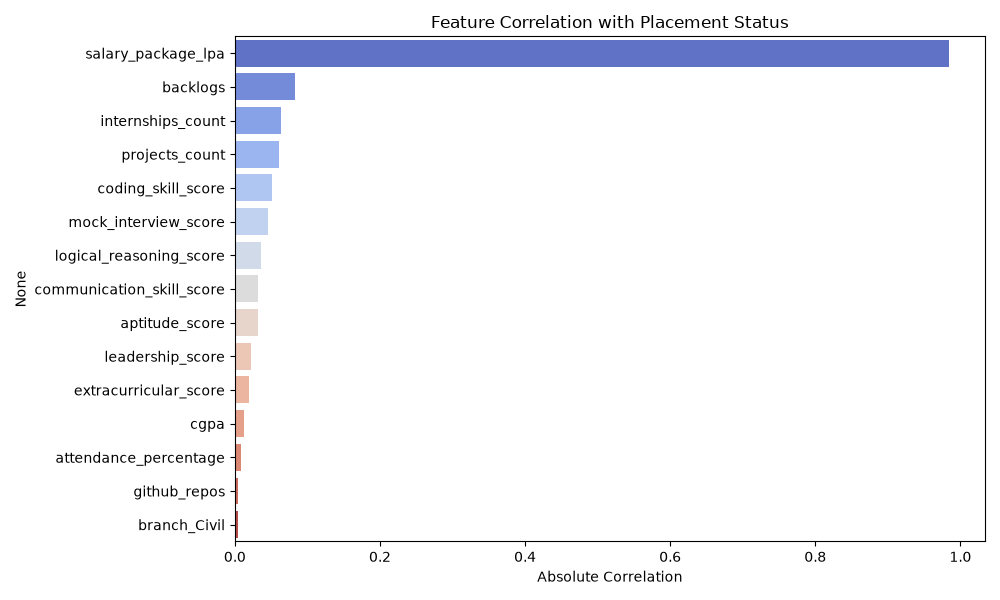
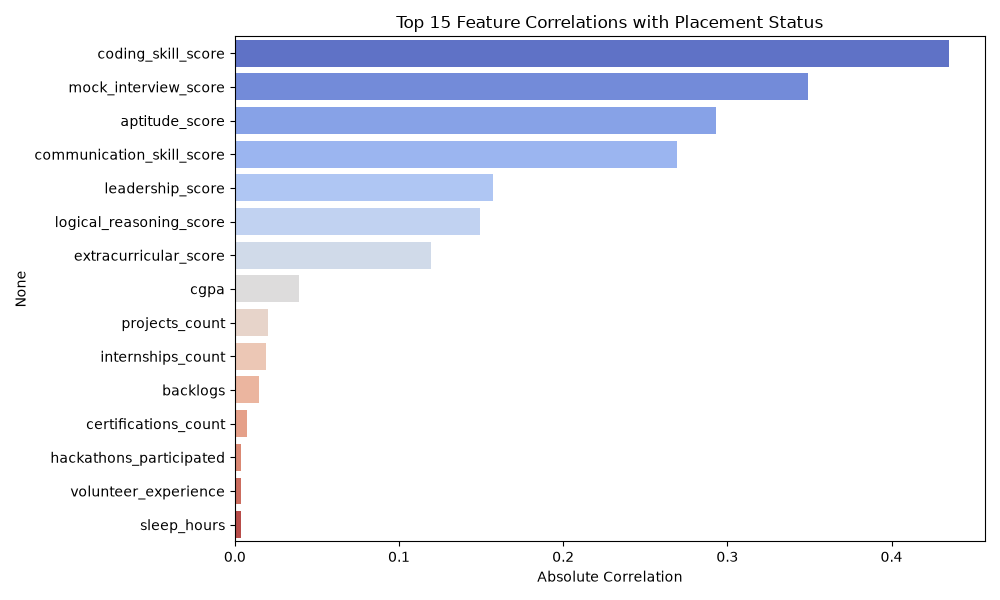
Visuals updated

diff --git a/src/visuals.py b/src/visuals.py
@@ -1,0 +1,169 @@
+import pandas as pd
+import seaborn as sns
+import matplotlib.pyplot as plt
+from sklearn.preprocessing import StandardScaler
+from sklearn.linear_model import LogisticRegression
+from sklearn.model_selection import train_test_split, cross_val_score
+from sklearn.ensemble import RandomForestClassifier, GradientBoostingClassifier
+import joblib
+import numpy as np
+
+df = pd.read_csv(r"data/preprocessed_data.csv")
+X = df.drop(["placement_status"], axis=1)
+y = df["placement_status"]
+
+# ─────────────────────────────────────────
+# 1. Class Distribution Bar Chart
+# ─────────────────────────────────────────
+plt.figure(figsize=(6, 4))
+counts = y.value_counts()
+sns.barplot(x=["Not Placed", "Placed"], y=counts.values,
+            hue=["Not Placed", "Placed"], palette="Blues_d", legend=False)
+for i, v in enumerate(counts.values):
+    plt.text(i, v + 300, str(v), ha="center", fontweight="bold")
+plt.title("Class Distribution")
+plt.ylabel("Count")
+plt.tight_layout()
+plt.savefig("data/class_distribution.png")
+plt.show()
+print("✓ Class distribution saved")
+
+
+plt.figure(figsize=(20, 16))
+sns.heatmap(df.corr(numeric_only=True), annot=True, fmt=".2f",
+            cmap="coolwarm", linewidths=0.5, annot_kws={"size": 6})
+plt.title("Full Feature Correlation Heatmap", fontsize=16)
+plt.tight_layout()
+plt.savefig("data/heatmap.png")
+plt.show()
+print("✓ Heatmap saved")
+
+# ─────────────────────────────────────────
+# 3. Top 15 Feature Correlations with placement_status
+# ─────────────────────────────────────────
+correlations = df.corr(numeric_only=True)["placement_status"].drop("placement_status")
+correlations = correlations.abs().sort_values(ascending=False).head(15)
+
+plt.figure(figsize=(10, 6))
+sns.barplot(x=correlations.values, y=correlations.index,
+            hue=correlations.index, palette="coolwarm", legend=False)
+plt.title("Top 15 Feature Correlations with Placement Status")
+plt.xlabel("Absolute Correlation")
+plt.tight_layout()
+plt.savefig("data/feature_correlation.png")
+plt.show()
+print("✓ Feature correlation saved")
+
+# ─────────────────────────────────────────
+# 4. Box Plots — Feature Distributions by Placement
+# ─────────────────────────────────────────
+top_features = ["coding_skill_score", "mock_interview_score",
+                "aptitude_score", "communication_skill_score",
+                "logical_reasoning_score", "leadership_score"]
+
+fig, axes = plt.subplots(2, 3, figsize=(16, 10))
+axes = axes.flatten()
+
+for i, feature in enumerate(top_features):
+    sns.boxplot(x=df["placement_status"], y=df[feature],
+                hue=df["placement_status"], palette="Blues",
+                legend=False, ax=axes[i])
+    axes[i].set_title(f"{feature} by Placement Status")
+    axes[i].set_xticklabels(["Not Placed", "Placed"])
+    axes[i].set_xlabel("")
+
+plt.suptitle("Feature Distributions by Placement Status", fontsize=14)
+plt.tight_layout()
+plt.savefig("data/boxplots.png")
+plt.show()
+print("✓ Box plots saved")
+
+# ─────────────────────────────────────────
+# 5. CV Accuracy Comparison Bar Chart
+# ─────────────────────────────────────────
+models = {
+    "Logistic Regression": LogisticRegression(max_iter=2000, solver="saga", random_state=42),
+    "Random Forest": RandomForestClassifier(n_estimators=100, max_depth=8,
+                                            min_samples_leaf=50, random_state=42),
+    "Gradient Boosting": GradientBoostingClassifier(n_estimators=100, max_depth=3,
+                                                    learning_rate=0.05, random_state=42)
+}
+
+cv_means = {}
+cv_stds  = {}
+for name, m in models.items():
+    scores = cross_val_score(m, X, y, cv=5, scoring="accuracy")
+    cv_means[name] = scores.mean()
+    cv_stds[name]  = scores.std()
+    print(f"{name}: {scores.mean():.4f}")
+
+plt.figure(figsize=(8, 5))
+bars = plt.bar(cv_means.keys(), cv_means.values(),
+               yerr=cv_stds.values(), capsize=5,
+               color=["#4C72B0", "#55A868", "#C44E52"])
+plt.ylim(0.75, 0.92)
+for bar, val in zip(bars, cv_means.values()):
+    plt.text(bar.get_x() + bar.get_width()/2,
+             bar.get_height() + 0.002,
+             f"{val:.4f}", ha="center", fontweight="bold")
+plt.title("Cross Validation Accuracy Comparison")
+plt.ylabel("CV Accuracy")
+plt.tight_layout()
+plt.savefig("data/cv_comparison.png")
+plt.show()
+print("✓ CV comparison saved")
+
+# ─────────────────────────────────────────
+# 6. Confusion Matrix (reload saved model)
+# ─────────────────────────────────────────
+from sklearn.metrics import confusion_matrix
+from sklearn.pipeline import Pipeline
+
+X_train, X_test, y_train, y_test = train_test_split(
+    X, y, test_size=0.2, random_state=42, stratify=y)
+
+best_model = Pipeline([
+    ("scaler", StandardScaler()),
+    ("model", LogisticRegression(max_iter=1000, random_state=42))
+])
+best_model.fit(X_train, y_train)
+y_pred = best_model.predict(X_test)
+
+cm = confusion_matrix(y_test, y_pred)
+plt.figure(figsize=(6, 4))
+sns.heatmap(cm, annot=True, fmt="d", cmap="Blues",
+            xticklabels=["Not Placed", "Placed"],
+            yticklabels=["Not Placed", "Placed"])
+plt.title("Confusion Matrix - Logistic Regression")
+plt.xlabel("Predicted")
+plt.ylabel("Actual")
+plt.tight_layout()
+plt.savefig("data/confusion_matrix.png")
+plt.show()
+print("✓ Confusion matrix saved")
+
+# ─────────────────────────────────────────
+# 7. Accuracy Summary Bar Chart
+# ─────────────────────────────────────────
+metrics = {
+    "Training Accuracy": best_model.score(X_train, y_train),
+    "Testing Accuracy" : best_model.score(X_test, y_test),
+    "CV Score"         : 0.8663
+}
+
+plt.figure(figsize=(7, 4))
+bars = plt.bar(metrics.keys(), metrics.values(),
+               color=["#4C72B0", "#55A868", "#C44E52"])
+plt.ylim(0.80, 0.90)
+for bar, val in zip(bars, metrics.values()):
+    plt.text(bar.get_x() + bar.get_width()/2,
+             bar.get_height() + 0.001,
+             f"{val:.4f}", ha="center", fontweight="bold")
+plt.title("Model Accuracy Summary")
+plt.ylabel("Accuracy")
+plt.tight_layout()
+plt.savefig("data/accuracy_summary.png")
+plt.show()
+print("✓ Accuracy summary saved")
+
+print("\n✅ All visuals generated and saved to data/ folder!")

diff --git a/src/train_model.py b/src/train_model.py
@@ -28,7 +28,7 @@ X_train, X_test, y_train, y_test = train_test_split(
 models = {
     "Logistic Regression": Pipeline([
         ("scaler", StandardScaler()),
-        ("model", LogisticRegression(max_iter=1000, random_state=42))
+        ("model", LogisticRegression(max_iter=5000, random_state=42))
     ]),
     "Random Forest": RandomForestClassifier(
         n_estimators=100,